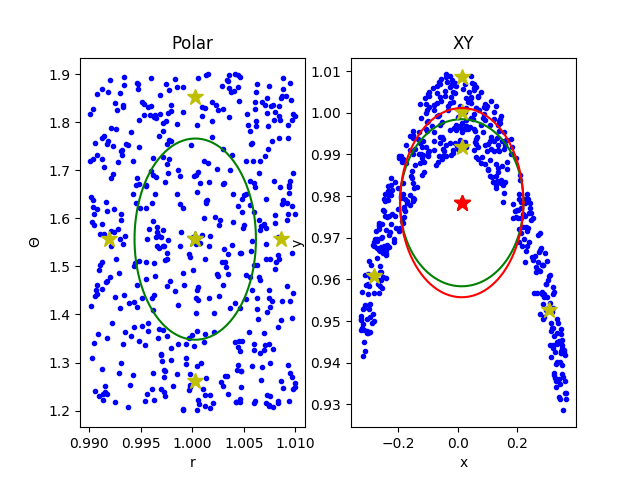
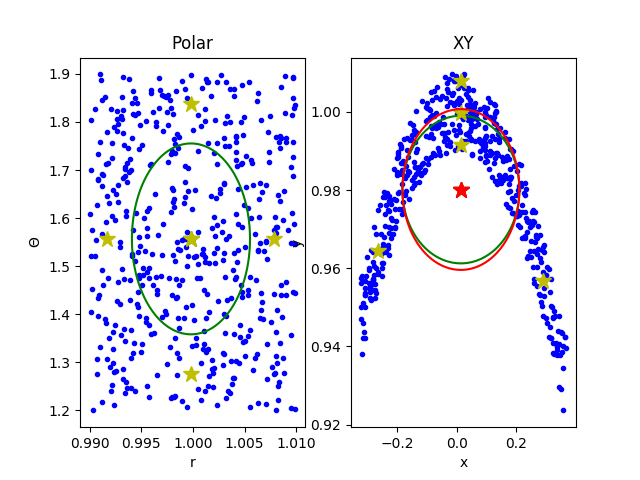
Fixed missing bracket in calculating weights

diff --git a/course2_state_estimation/lesson6.py b/course2_state_estimation/lesson6.py
@@ -78,7 +78,7 @@ L = np.linalg.cholesky(P)
 N = 2
 num_sigma = 2 * N + 1
 # Kappa, tuning parameter
-k = 2 - N
+k = 2. - N
 # Initialize the sigma point vector.
 sigma_points = np.zeros((num_sigma, N))
 # The first sigma point is the mean before the transformation
@@ -134,7 +134,7 @@ for i in range(num_sigma):
     if i is 0:
         alpha = k / (N + k)
     else:
-        alpha = 0.5 * (1.0 / N + k)
+        alpha = 0.5 * (1.0 / (N + k))
 
     # X mean
     spt_mean[0] = spt_mean[0] + alpha * sigma_points_transformed[i, 0]
@@ -146,7 +146,7 @@ for i in range(np.size(sigma_points_transformed, 0)):
     if i is 0:
         alpha = k / (N + k)
     else:
-        alpha = 0.5 * (1.0 / N + k)
+        alpha = 0.5 * (1.0 / (N + k))
     
     # The observation
     y_i = sigma_points_transformed[i, :].reshape(2, 1)
